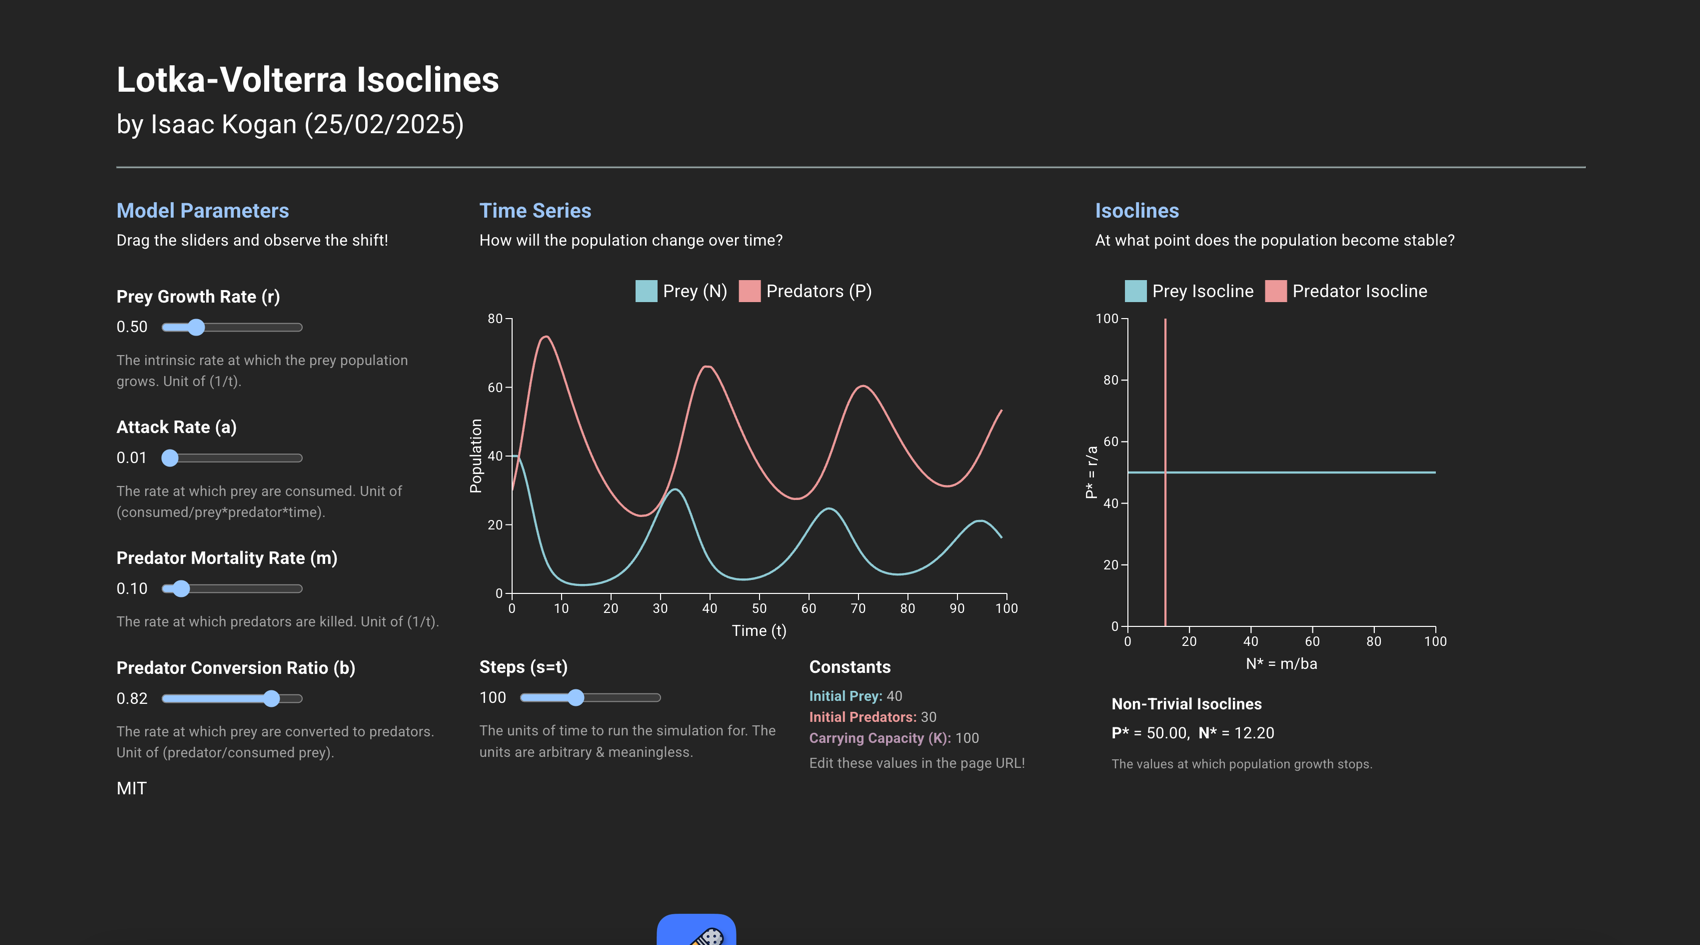
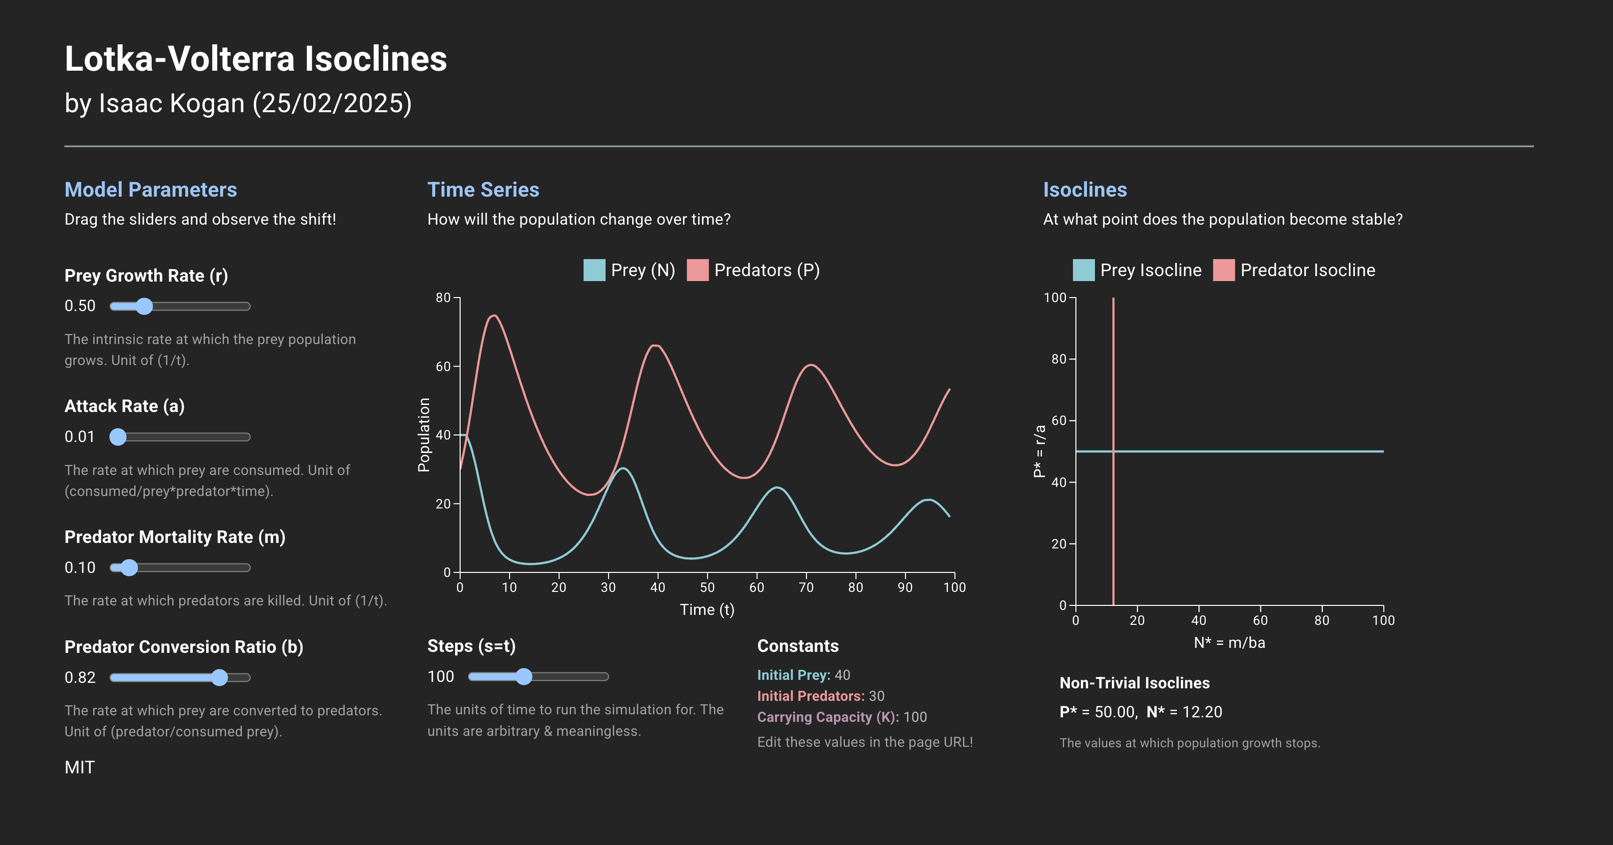
Update

diff --git a/app/src/components/time-series.tsx b/app/src/components/time-series.tsx
@@ -132,10 +132,10 @@ export const TimeSeries: FC<HTMLProps<HTMLDivElement>> = (props) => {
             <TimeSeriesParametersForm onValueChanged={() => setChanged()}/>
             <div>
               <h4 style={{marginBottom: "5px", marginTop: "0px", fontWeight: "bold"}}>Constants</h4>
-              <div style={{color: "#bdbdbd", fontSize: "0.8em"}}>
+              <div style={{color: "#fff", fontSize: "0.8em"}}>
                 <strong style={{color: "#8fcbd5"}}>Initial Prey:</strong> {Constants.initialN}<br/>
                 <strong style={{color: "#ec9999"}}>Initial Predators:</strong> {Constants.initialP}<br/>
-                <strong style={{color: "#b795b1"}}>Carrying Capacity (K):</strong> {Constants.preyK}
+                <strong style={{color: "#9bc5f6"}}>Carrying Capacity (K):</strong> {Constants.preyK}
               </div>
               <Description>Edit these values in the page URL!</Description>
             </div>

diff --git a/app/src/App.tsx b/app/src/App.tsx
@@ -12,8 +12,8 @@ function App() {
         <nav>
           <h1 style={{marginBottom: 0}}>Lotka-Volterra Isoclines</h1>
           <h2 style={{marginTop: "5px"}}>by Isaac Kogan (25/02/2025)</h2>
-          <hr/>
         </nav>
+        <hr/>
         <main>
           <ModelParametersForm onValueChanged={() => setChanged()}/>
           <TimeSeries/>
@@ -21,8 +21,12 @@ function App() {
             <IsoclineGraph/>
           </div>
         </main>
+        <hr/>
         <footer>
-          MIT
+          <span><a target={"_blank"}
+                   href={"https://github.com/isaackogan/Lotka-Volterra"}>View Source</a> on GitHub</span>
+          <span><strong style={{color: "#9bc5f6"}}>L-V Predator Model - </strong><span>N/dt= rN-aNP</span></span>
+          <span><strong style={{color: "#9bc5f6"}}>L-V Prey Model - </strong><span>dP/dt = baNP - mp</span></span>
         </footer>
       </>
   )

diff --git a/app/src/stores/model.ts b/app/src/stores/model.ts
@@ -23,7 +23,7 @@ export const Maxima: ModelParameters & TimeSeriesParameters = {
   a: 1.0,
   b: 1.0,
   m: 1.0,
-  steps: 250
+  steps: 500
 }
 
 export const Minima: ModelParameters & TimeSeriesParameters = {
@@ -86,9 +86,9 @@ export type ConstantParameters = {
 
 const url = new URL(window.location.href);
 
-const searchN = url.searchParams.get('N');
-const searchP = url.searchParams.get('P');
-const searchK = url.searchParams.get('K');
+const searchN = url.searchParams.get('N') && parseInt(url.searchParams.get('N')!);
+const searchP = url.searchParams.get('P') && parseInt(url.searchParams.get('P')!);
+const searchK = url.searchParams.get('K') && parseInt(url.searchParams.get('K')!);
 
 const DefaultConstants: ConstantParameters = {
   initialN: 40,

diff --git a/app/src/index.css b/app/src/index.css
@@ -15,11 +15,19 @@
 
 a {
   font-weight: 500;
-  color: #646cff;
+  color: #9bc5f6;
   text-decoration: inherit;
 }
 a:hover {
-  color: #535bf2;
+  color: #7597be;
+}
+
+footer {
+  display: flex;
+  flex-wrap: wrap;
+  align-items: center;
+  column-gap: 20px;
+  margin-top: 25px;
 }
 
 body {

diff --git a/app/src/App.css b/app/src/App.css
@@ -11,7 +11,7 @@
 }
 
 hr {
-    border-color: rgba(202, 224, 224, 0.71);
+    border-color: rgba(135, 137, 140, 0.71);
 }
 
 h1 {
@@ -32,6 +32,7 @@ main {
     column-gap: 30px;
     row-gap: 30px;
     flex-wrap: wrap;
+    margin-bottom: 25px;
 }
 
 #isoclines {
